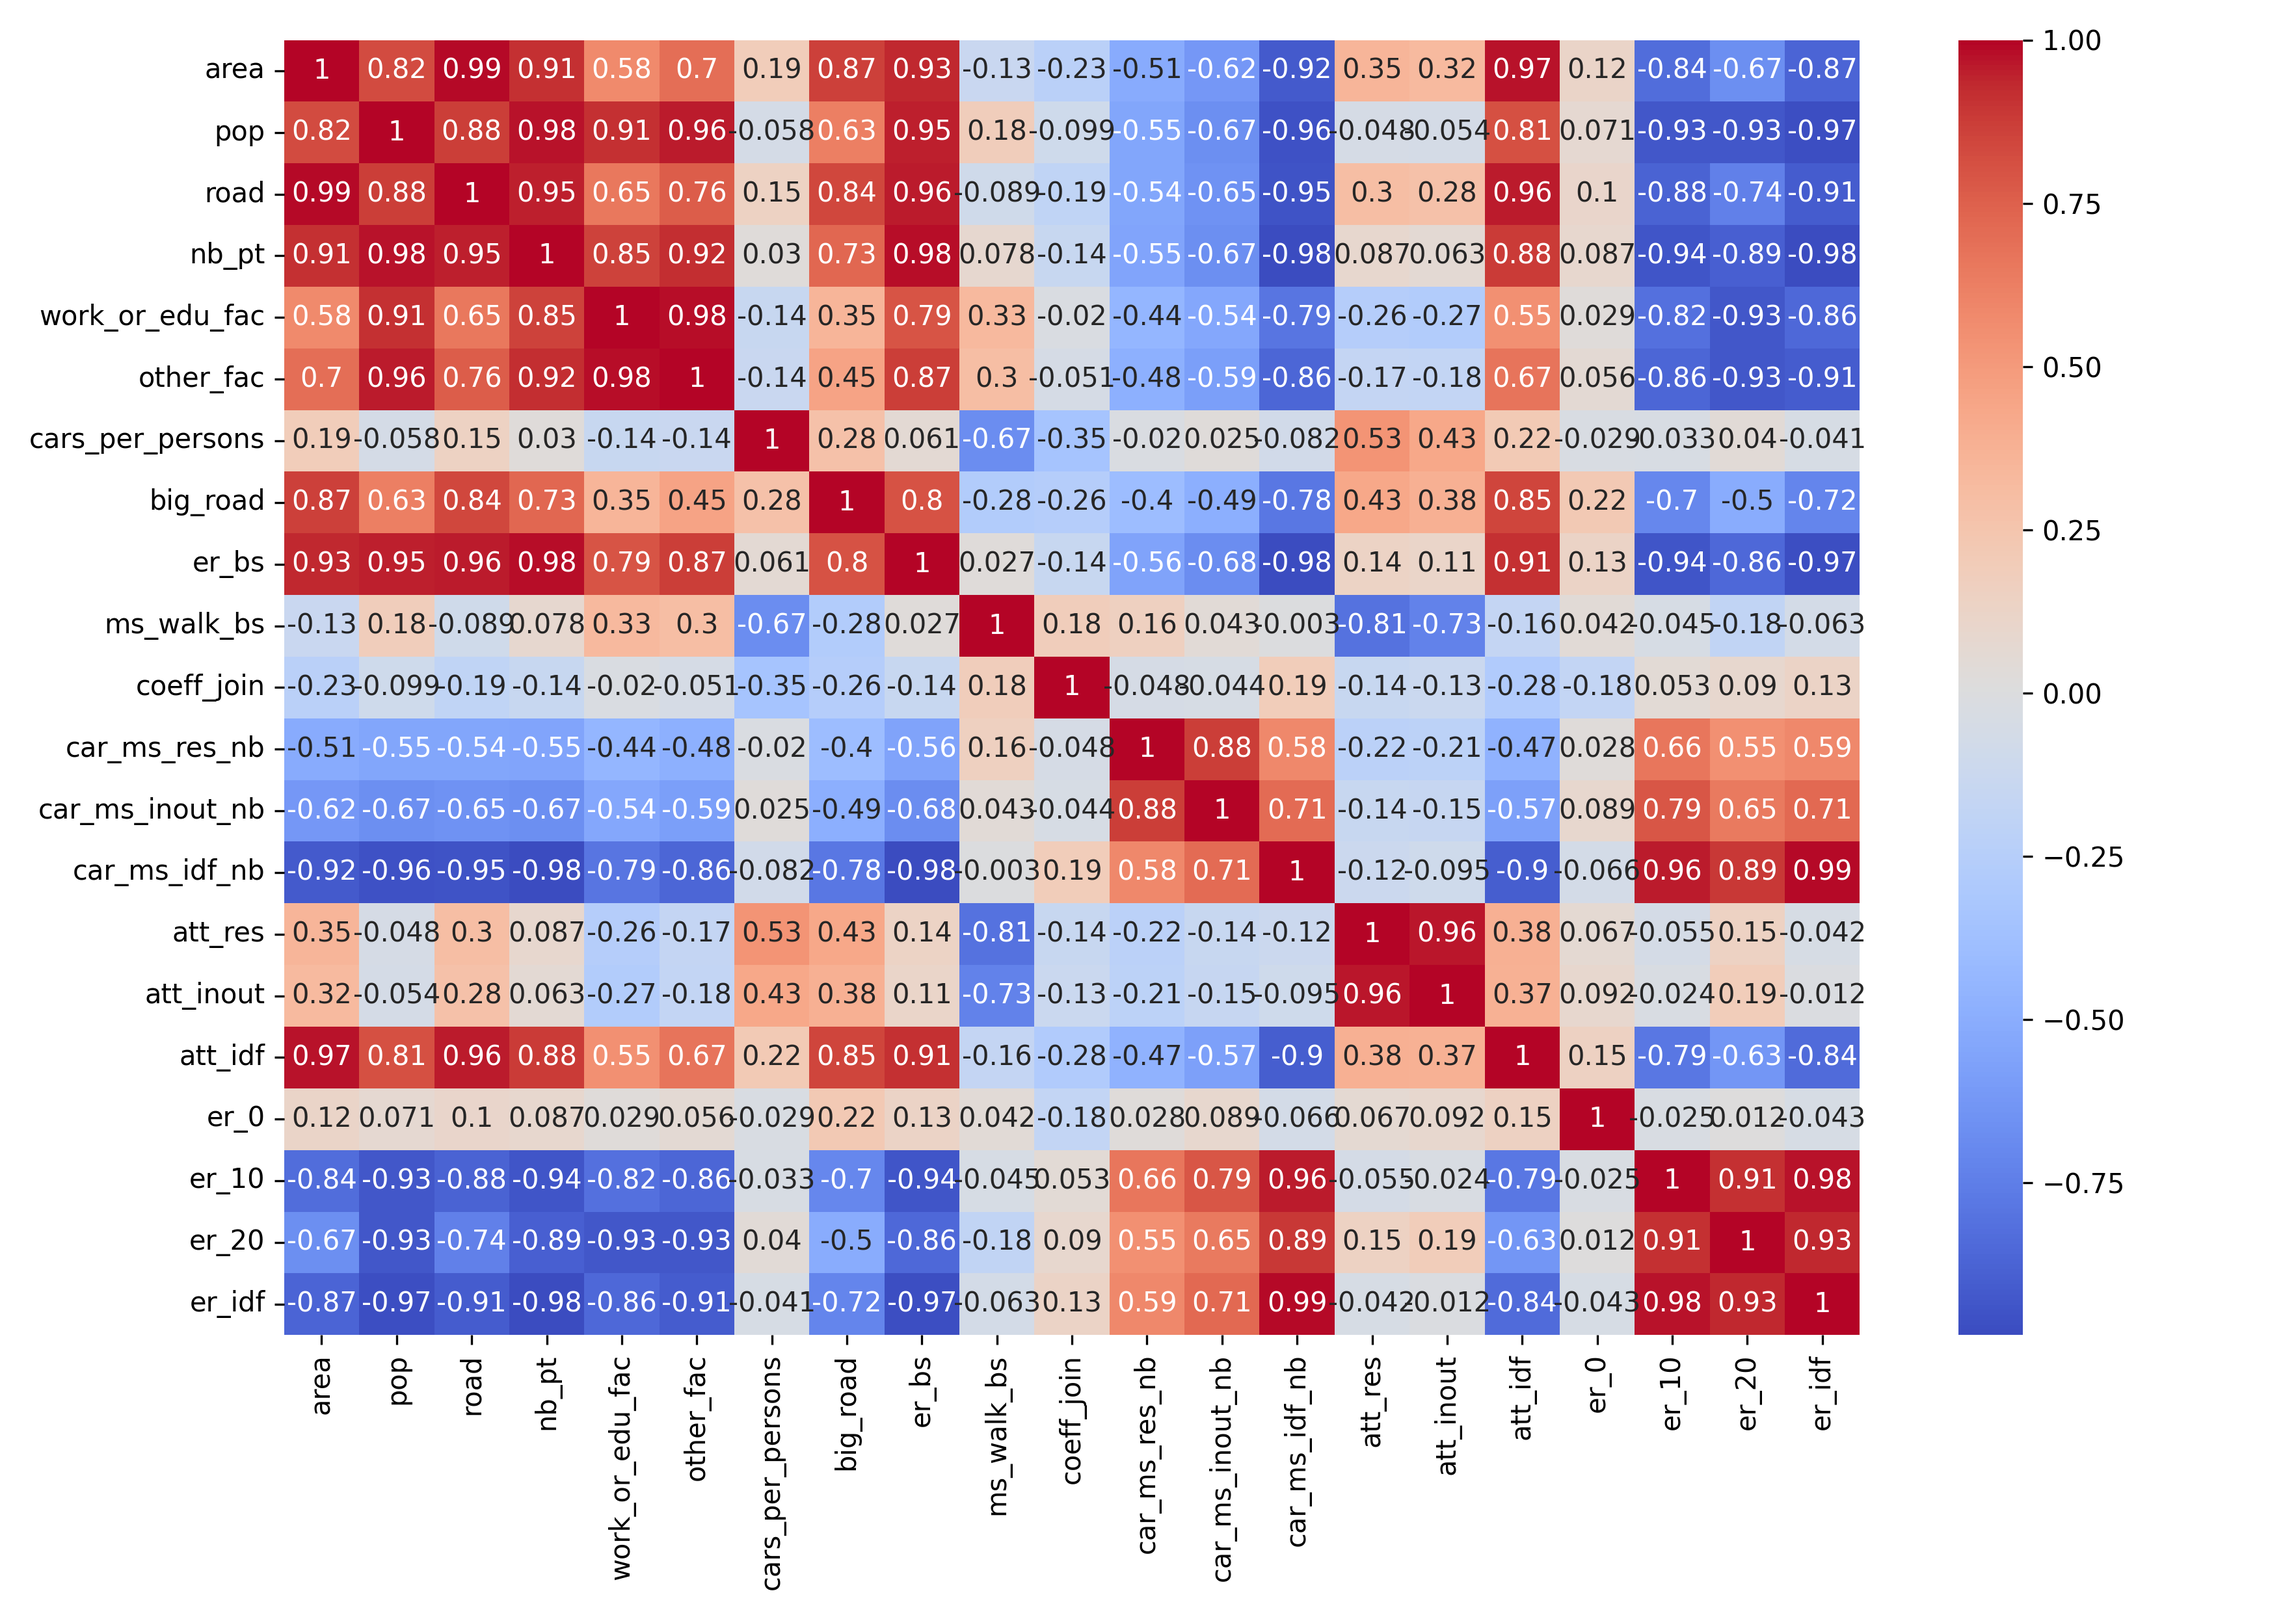
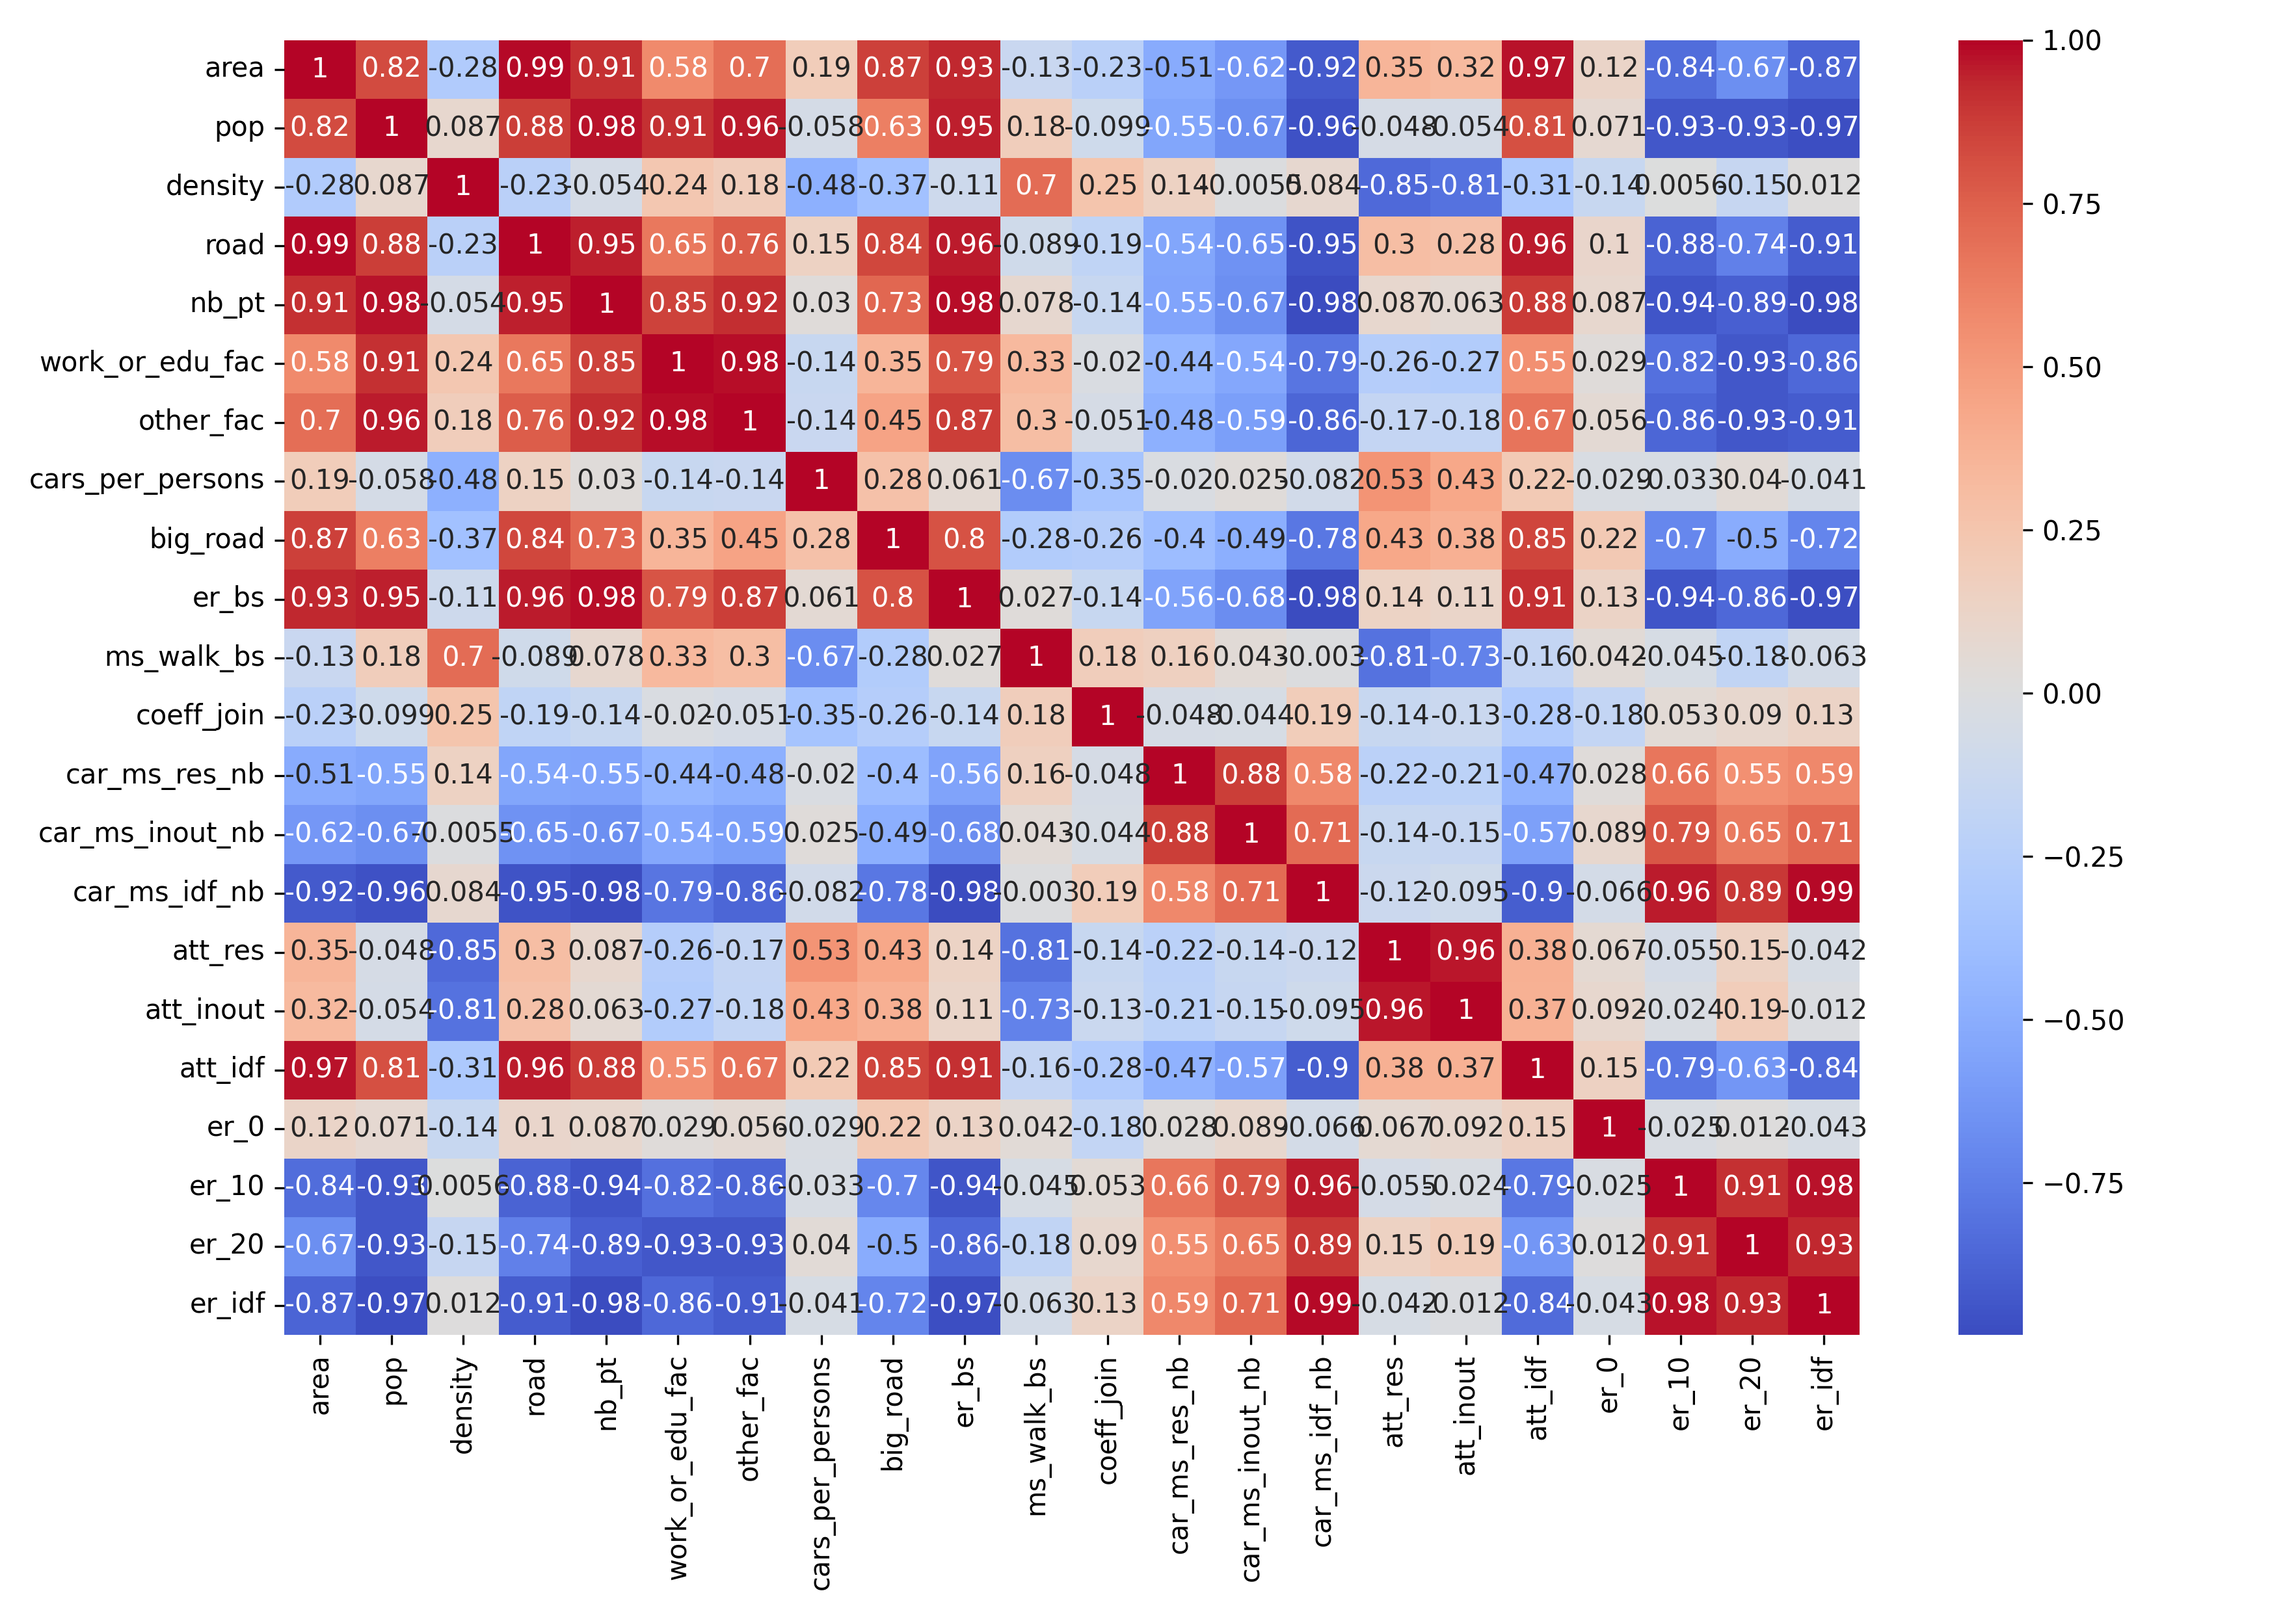
avancement readme + div pop easy

diff --git a/python_files/models/linear_gbt_knn.py b/python_files/models/linear_gbt_knn.py
@@ -13,19 +13,22 @@ split_type = "dep"
 add_info = add_info = [["92","75","9293","9394"],["93","7594","94","7592"],[]]
 
 #Choix des résultats à garder
-#liste_res = ["car_ms_idf_nb","att_idf","er_idf"]
-liste_res = ["car_ms_res_nb","car_ms_inout_nb","car_ms_idf_nb","att_res","att_inout","att_idf","er_0","er_10","er_20","er_idf"]
+liste_res = ["car_ms_idf_nb","att_idf","er_idf"]
+#liste_res = ["car_ms_res_nb","car_ms_inout_nb","car_ms_idf_nb","att_res","att_inout","att_idf","er_0","er_10","er_20","er_idf"]
 
 #Choix des features à garder
 #liste_feats = ["area","pop","density","road","nb_pt","work_or_edu_fac","other_fac","cars_per_persons","big_road","er_bs","ms_walk_bs","coeff_join"]
 liste_feats = ["area","pop","density","road","nb_pt","work_or_edu_fac","other_fac","cars_per_persons","big_road","er_bs","ms_walk_bs","coeff_join"]
 
-X_train, X_test, X_val, y_train, y_test, y_val, infos = gt.build_test_train(df_data=gt.get_data(),split_type = split_type, split_arg= add_info,normX = True, normY = True,liste_res=liste_res,liste_feats=liste_feats)
+df_data = gt.get_data()
+#df_data=gt.div_data_by_column(df = df_data, col_div = "pop", skip = ["area","insee","density","cars_per_person","ms_walk_bs","coeff_join"])
+
+X_train, X_test, X_val, y_train, y_test, y_val, infos = gt.build_test_train(df_data = df_data,split_type = split_type, split_arg= add_info,normX = True, normY = True,liste_res=liste_res,liste_feats=liste_feats)
 
 #Choix du modèle
-model = KNeighborsRegressor(n_neighbors=7) #Knns
+#model = KNeighborsRegressor(n_neighbors=7) #Knns
 #model = MultiOutputRegressor(GradientBoostingRegressor()) #Gbts
-#model = LinearRegression() #Régression linéaire
+model = LinearRegression() #Régression linéaire
 
 model.fit(X_train, y_train)
 test_preds = model.predict(X_test)

diff --git a/python_files/get_graphes/corr_matrix.py b/python_files/get_graphes/corr_matrix.py
@@ -7,10 +7,10 @@ def matrix(only_data = True):
     plt.clf()
     df = pd.read_csv(attrib.data_file,sep=";")
     df.drop(columns = ["insee"],inplace=True)
-    df.drop(columns = ["density"],inplace=True)
+    #df.drop(columns = ["density"],inplace=True)
     new_df = pd.DataFrame()
-    col_div = None
-    skip = ["density","cars_per_person","ms_walk_bs","coeff_join"]
+    col_div = "pop"
+    skip = ["area","density","cars_per_person","ms_walk_bs","coeff_join"]
 
     for col in df.columns :
         if (col != col_div) and (col not in skip) and (col_div != None):
@@ -31,7 +31,9 @@ def matrix(only_data = True):
     figure = plt.gcf()
     figure.set_size_inches(11.7,8.3)
     figure.tight_layout()
-    plt.savefig("python_files\\get_graphes\\mat_corr.png",dpi = 300)
-
+    if col_div == None :
+        plt.savefig("python_files\\get_graphes\\mat_corr.png",dpi = 300)
+    else : 
+        plt.savefig("python_files\\get_graphes\\mat_corr_div_"+col_div+".png",dpi = 300)
 
 matrix(False)

diff --git a/python_files/models/load_and_test_model.py b/python_files/models/load_and_test_model.py
@@ -5,7 +5,7 @@ import tensorflow as tf
 from sklearn.metrics import mean_absolute_error,r2_score,mean_squared_error
 import attributes as attrib
 import pandas as pd
-from get_train_test_val import build_test_train,get_data
+from get_train_test_val import build_test_train,get_data,div_data_by_column
 from math import sqrt
 
 #model_path = "outputs\\cool\\3outputs2\\models.keras"
@@ -24,6 +24,8 @@ liste_res = ["car_ms_res_nb","car_ms_inout_nb","car_ms_idf_nb","att_res","att_in
 nb_output = len(liste_res)
 
 df_data = get_data()
+#df_data= div_data_by_column(df = df_data, col_div = "pop", skip = ["area","insee","density","cars_per_person","ms_walk_bs","coeff_join"])
+
 X_train, X_test, X_val, y_train, y_test, y_val, infos = build_test_train(df_data=df_data, split_type = split_type, split_arg= add_info,normX = True, normY = True, liste_res=liste_res)
 
 train_size = len(X_train)

diff --git a/python_files/models/anns_run.py b/python_files/models/anns_run.py
@@ -17,7 +17,7 @@ import keras.src.losses
 from sklearn.metrics import mean_absolute_error, r2_score
 import attributes as attrib
 import pandas as pd
-from get_train_test_val import build_test_train,get_data
+from get_train_test_val import build_test_train,get_data, div_data_by_column
 STDOUT = sys.stdout
 
 #paramètres
@@ -37,6 +37,8 @@ liste_res = ["car_ms_idf_nb","att_idf","er_idf"]
 nb_output = len(liste_res)
 
 df_data = get_data()
+#df_data=div_data_by_column(df = df_data, col_div = "pop", skip = ["area","insee","density","cars_per_person","ms_walk_bs","coeff_join"])
+
 X_train, X_test, X_val, y_train, y_test, y_val, infos = build_test_train(df_data=df_data, split_type = split_type, split_arg= add_info,normX = True, normY = True, liste_res=liste_res)
 
 train_size = len(X_train)

diff --git a/python_files/get_graphes/graph_corr_alone.py b/python_files/get_graphes/graph_corr_alone.py
@@ -36,6 +36,8 @@ def make_graph_corr(x = "area", y = "er_idf", j_or_dj_is = False, size_is = Fals
         file_path += "_size"
     elif j_or_dj_is :
         file_path += "_jdj"
+    
+    #plt.axline((1, -2), (4, -15), color = "black" )
     plt.savefig(file_path,dpi = 300)
 
 def make_the_graph(x, y, j_or_dj_is, size_is, df_x, df_y, legend = True):
@@ -92,4 +94,4 @@ def make_the_graph(x, y, j_or_dj_is, size_is, df_x, df_y, legend = True):
                 plt.scatter(X,Y,marker=signs[j_or_dj],c = colors[size],label = label)
     
     
-make_graph_corr(x = "att_idf", y = "er_idf", size_is=True, j_or_dj_is=True)
+make_graph_corr(x = "density", y = "att_res", size_is=True, j_or_dj_is=True)

diff --git a/python_files/models/get_train_test_val.py b/python_files/models/get_train_test_val.py
@@ -190,8 +190,7 @@ def build_test_train(df_data = get_data(), df_results = get_results(), split_typ
     print("Val size :",val_size)
     return X_train,X_test,X_val,Y_train,Y_test,Y_val,[[train_insees],[test_insees],[val_insees]]
 
-def div_data_by_column(df = get_data(), to_drop = ["density"], col_div = "area", skip = ["insee","density","cars_per_person","ms_walk_bs","coeff_join"]):
-    df.drop(columns = to_drop,inplace=True)
+def div_data_by_column(df = get_data(), col_div = "area", skip = ["population","area","insee","density","cars_per_person","ms_walk_bs","coeff_join"]):
     new_df = pd.DataFrame()
     for col in df.columns :
         if (col != col_div) and (col not in skip) :

diff --git a/python_files/get_graphes/README.md b/python_files/get_graphes/README.md
@@ -34,7 +34,7 @@ Le dossier div_area_graphes contient les même graphes que all_graphes sauf que 
 
 On peut voir que la plupart des sorties sont fortement corrélées à l'aire, sauf le gain de temps de trajet pour les résidents et les utilisateurs, ainsi que le gain d'émissions de CO2 dans la drz.
  
-Les temps de trajets semblent être plutôt corrélés avec le nombre de voiture par personne.
+Les temps de trajets semblent être plutôt corrélés avec le nombre de voiture par personne et la densité de population.
 
 La seule des entrées qui est corrélée de manière non négligeable avec le gain d'émissions de CO2 dans la DRZ est le nombre de kilomètres d'autoroutes, ce qui était attendu.
 
@@ -54,7 +54,42 @@ Elles sont maintenant corrélées au gain du temps de trajet moyen.
 
 Les autres relations semblent rester les mêmes même si elles sont parfois accentuées.
 
+
+### Matrice de corrélation avec certaines entrées divisées par la population
+
+Les entrées ont été remplacées par leur valeur par habitant sauf pour le nombre de voiture par personnes, la part modale de la marche dans le cas de base et le coefficient de jointure.
+
+![Matrice de corrélation des densités](./mat_corr_div_pop.png)
+
+Les entrées sont beaucoup moins corrélées entre elles et chaque sortie est clairement corrélée à un petit groupe d'entrées.
+
+Il pourrait être intéressant de réentraîner les modèles avec les entrées en valeur par habitants.
+
 ## Graphes de relations entre les entrées et sorties
 
+### Gain d'émissions de CO2 sur l'île de France en fonction du gain de temps de trajet moyen sur l'île de France
 
+![Graphe CO2 en fonction de att](./graph_corr_er_idf_with_att_idf_size_and_jdj.png)
+
+Ce graphe nous permet de calculer le coût qu'a la réduction des émissions et semble montrer qu'il existe un optimum à viser (ligne noire).
+
+L'optimum à été dessiné à la main, son équation est y = 7/3 + (13/3)*x.
+
+### Gain d'émissions de CO2 sur l'île de France en fonction de l'aire de la DRZ
+
+![Graphe CO2 en fonction de att](./graph_corr_er_idf_with_area_size_and_jdj.png)
+
+On peut voir qu'il y a une relation entre l'aire de la DRZ et le gain d'émissions de CO2 en île de France. Cette relation confirme ce que l'on a observé sur la matrice de corrélation.
+
+Néanmoins ce gain n'est pas strictement linéaire, pour une même aire il y a plusieurs gains d'émissions possibles.
+
+### Gain du temps de trajet moyen pour les résidents et les non-résidents en fonction de la densité de la DRZ
+
+Ci-dessous le graphe du gain du temps de trajet moyen pour les résidents en fonction de la densité de la DRZ
+![Graphe att_res en fonction de densité](./graph_corr_att_res_with_density_size_and_jdj.png)
+
+On peut voir qu'il y a une relation entre l'aire de la DRZ et le gain d'émissions de CO2 en île de France. Cette relation confirme ce que l'on a observé sur la matrice de corrélation.
+
+Néanmoins ce gain n'est pas strictement linéaire, pour une même aire il y a plusieurs gains d'émissions possibles.
+python_files\get_graphes\graph_corr_att_res_with_density_size_and_jdj.png
 
